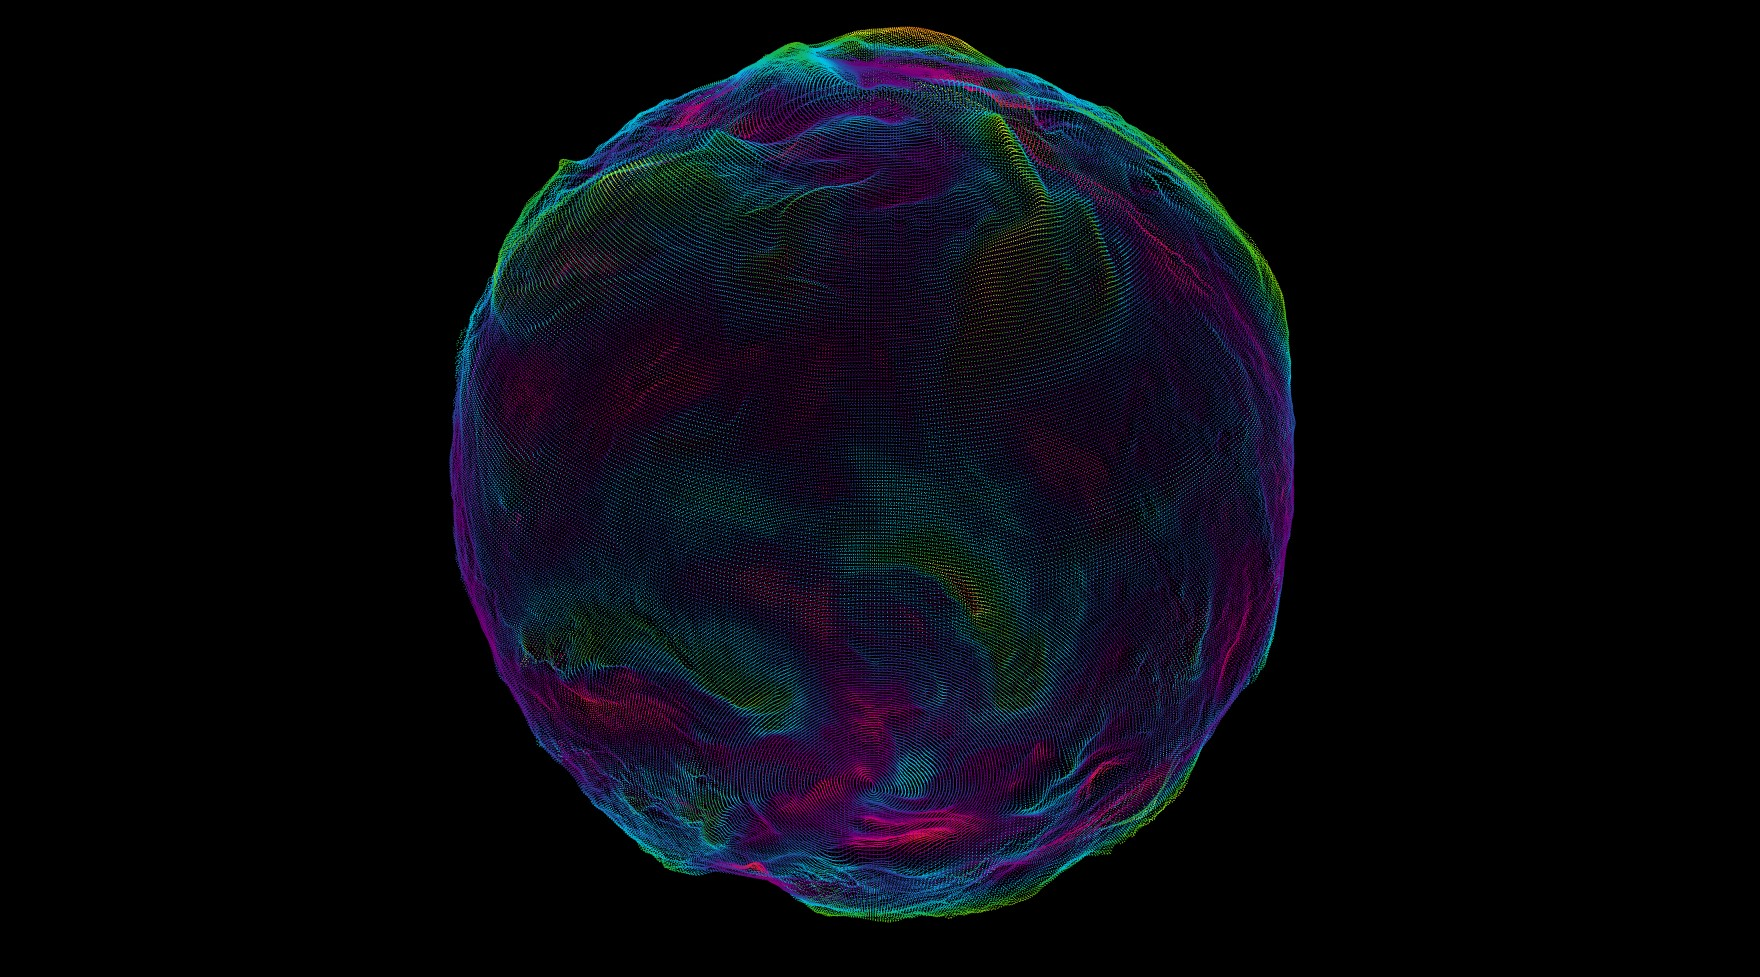
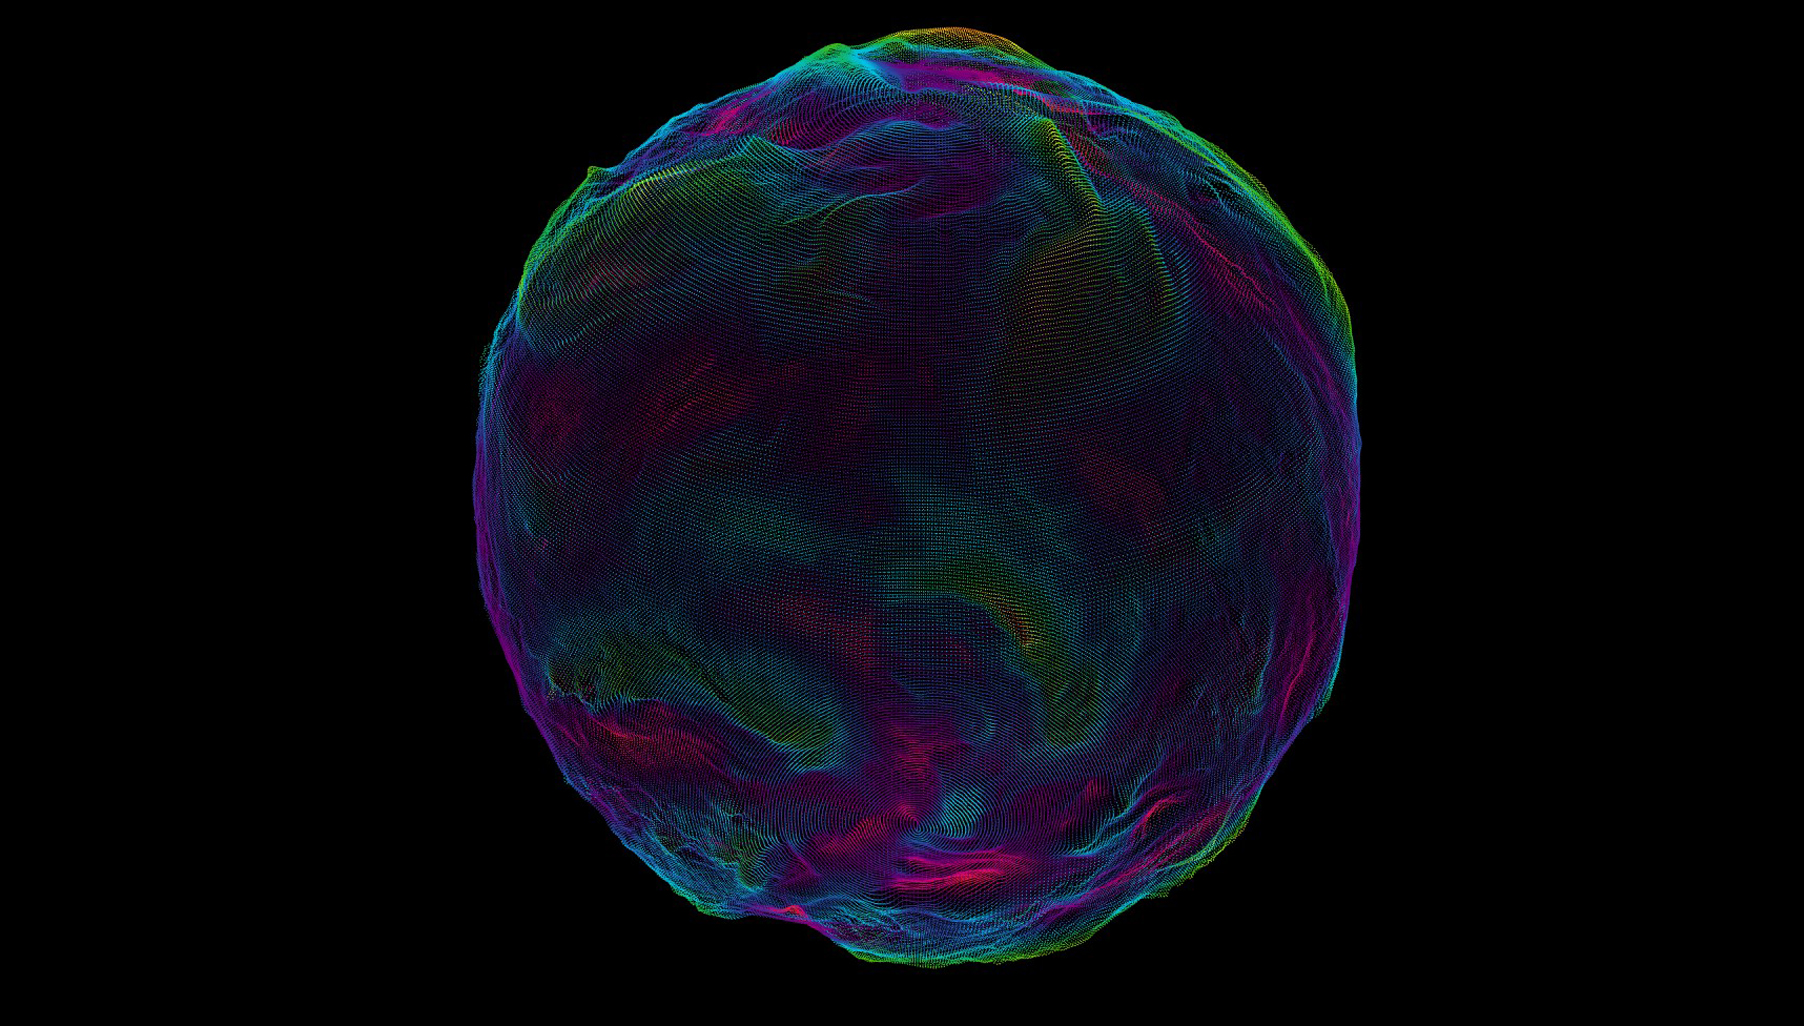
Add small images for lazy loading and unitize the size of all images for smoother UX
Smooth

Changed region(s): [[0.25, 0.0, 0.7812, 0.9519]]

diff --git a/index.html b/index.html
@@ -106,7 +106,7 @@
               <div class="pagepiling">
                   <div data-anchor="page1" class="pp-scrollable text-white section section-1">
                       <div class="scroll-wrap">
-                          <div class="section-bg lazyload" style="background-image:url(Images/bg/WindVelocity_4.jpg);" data-src="Images/bg/WindVelocity_4.jpg"></div>
+                          <div class="lazy section-bg" style="background-image:url(Images/bg/WindVelocity_4_Small.jpg);" data-original="Images/bg/WindVelocity_4.jpg"></div>
                           <div class="scrollable-content">
                               <div class="vertical-centred">
                                   <div class="boxed boxed-inner">
@@ -189,12 +189,12 @@
                   <div data-anchor="page3" class="pp-scrollable text-white section section-3">
                       <div class="scroll-wrap">
                           <div class="bg-changer">
-                              <div class="section-bg" style="background-image:url(Images/bg/NotOurHome.png);" data-src="Images/bg/NotOurHome.png"></div>
-                              <div class="section-bg" style="background-image:url(Images/Galaxy/GalaxyOne.png);" data-src="Images/Galaxy/GalaxyOne.png"></div>
-                              <div class="section-bg" style="background-image:url(Images/bg/BezierP5.png);" data-src="Images/bg/BezierP5.png"></div>
-                              <div class="section-bg" style="background-image:url(Images/bg/FluidsMobile.png);" data-src="Images/bg/FluidsMobile.png"></div>
-                              <div class="section-bg" style="background-image:url(Images/bg/Fluid.png);" data-src="Images/bg/Fluid.png"></div>
-                              <div class="section-bg" style="background-image:url(Images/bg/FunkyWaveTwo.png);" data-src="Images/bg/FunkyWaveTwo.png"></div>
+                              <div class="lazy section-bg" style="background-image:url(Images/bg/NotOurHome_Small.png);" data-original="Images/bg/NotOurHome.png"></div>
+                              <div class="lazy section-bg" style="background-image:url(Images/Galaxy/GalaxyOne_Small.png);" data-original="Images/Galaxy/GalaxyOne.png"></div>
+                              <div class="lazy section-bg" style="background-image:url(Images/bg/BezierP5_Small.png);" data-original="Images/bg/BezierP5.png"></div>
+                              <div class="lazy section-bg" style="background-image:url(Images/bg/FluidsMobile_Small.png);" data-original="Images/bg/FluidsMobile.png"></div>
+                              <div class="lazy section-bg" style="background-image:url(Images/bg/Fluid_Small.png);" data-original="Images/bg/Fluid.png"></div>
+                              <div class="lazy section-bg" style="background-image:url(Images/bg/FunkyWaveTwo_Small.png);" data-original="Images/bg/FunkyWaveTwo.png"></div>
                           </div>
                           <div class="scrollable-content">
                               <div class="vertical-centred">
@@ -287,9 +287,9 @@
                   <div data-anchor="page4" class="pp-scrollable text-white section section-3">
                       <div class="scroll-wrap">
                           <div class="bg-changer">
-                              <div class="section-bg" style="background-image:url(Images/bg/BezierGPU.png);" data-src="Images/bg/BezierGPU.png"></div>
-                              <div class="section-bg" style="background-image:url(Images/bg/dnaStructure.jpg);" data-src="Images/bg/dnaStructure.jpg"></div>
-                              <div class="section-bg" style="background-image:url(Images/Mesa/Mesa_5.png);" data-src="Images/Mesa/Mesa_5.png"></div>
+                              <div class="lazy section-bg" style="background-image:url(Images/bg/BezierGPU_Small.png);" data-original="Images/bg/BezierGPU.png"></div>
+                              <div class="lazy section-bg" style="background-image:url(Images/bg/dnaStructure_Small.jpg);" data-original="Images/bg/dnaStructure.jpg"></div>
+                              <div class="lazy section-bg" style="background-image:url(Images/Mesa/Mesa_Portada_Small.png);" data-original="Images/Mesa/Mesa_Portada.png"></div>
                           </div>
                           <div class="scrollable-content">
                               <div class="vertical-centred">
@@ -367,7 +367,7 @@
                                                       </div>
                                                       <div class="col-md-6 col-lg-5 col-md-offset-1 col-lg-offset-2">
                                                           <div class="dots-image-2">
-                                                              <img alt="" class="img-responsive" src="Images/bg/Yardy.jpg">
+                                                              <img alt="" class="lazy img-responsive" src="Images/bg/Yardy.jpg">
                                                               <div class="dots"></div>
                                                               <div class="experience-info">
                                                                   <div class="number">2</div>
@@ -386,7 +386,7 @@
                   </div>
                   <div data-anchor="page6" class="pp-scrollable text-white section section-6">
                       <div class="scroll-wrap">
-                          <div class="section-bg" style="background-image:url(Images/bg/WindVelocitySpherical.jpg);" data-src="Images/bg/WindVelocitySpherical.jpg"></div>
+                          <div class="lazy section-bg" style="background-image:url(Images/bg/WindVelocitySpherical_Small.jpg);" data-original="Images/bg/WindVelocitySpherical.jpg"></div>
                           <div class="scrollable-content">
                               <div class="vertical-centred">
                                   <div class="boxed boxed-inner">
@@ -548,13 +548,13 @@
     <!-- Scripts -->
     <script src="js/scripts.js"></script>
 
-    <script src="https://cdn.jsdelivr.net/npm/lazyload@2.0.0-rc.2/lazyload.js"></script>
+    <script src="js/lazyload.min.js"></script>
     <script>
-        /*window.addEventListener("load", function(event) {
-            let images = document.querySelectorAll("[data-src]");
-            let lazy = lazyload(images, {"src": "data-src"});
-        });*/
-        lazyload();
+        window.addEventListener("load", function(event) {
+            let images = document.querySelectorAll("[data-original]");
+            let lazy = lazyload(images, {"src": "data-original"});
+        });
+        //lazyload();
         //if( $("img.lazyload").lazyload )
         //console.log("YES");
         

diff --git a/js/lazyload.min.js b/js/lazyload.min.js
@@ -1,0 +1,2 @@
+/*! Lazy Load 2.0.0-rc.2 - MIT license - Copyright 2007-2019 Mika Tuupola */
+!function(t,e){"object"==typeof exports?module.exports=e(t):"function"==typeof define&&define.amd?define([],e):t.LazyLoad=e(t)}("undefined"!=typeof global?global:this.window||this.global,function(t){"use strict";function e(t,e){this.settings=s(r,e||{}),this.images=t||document.querySelectorAll(this.settings.selector),this.observer=null,this.init()}"function"==typeof define&&define.amd&&(t=window);const r={src:"data-src",srcset:"data-srcset",selector:".lazyload",root:null,rootMargin:"0px",threshold:0},s=function(){let t={},e=!1,r=0,o=arguments.length;"[object Boolean]"===Object.prototype.toString.call(arguments[0])&&(e=arguments[0],r++);for(;r<o;r++)!function(r){for(let o in r)Object.prototype.hasOwnProperty.call(r,o)&&(e&&"[object Object]"===Object.prototype.toString.call(r[o])?t[o]=s(!0,t[o],r[o]):t[o]=r[o])}(arguments[r]);return t};if(e.prototype={init:function(){if(!t.IntersectionObserver)return void this.loadImages();let e=this,r={root:this.settings.root,rootMargin:this.settings.rootMargin,threshold:[this.settings.threshold]};this.observer=new IntersectionObserver(function(t){Array.prototype.forEach.call(t,function(t){if(t.isIntersecting){e.observer.unobserve(t.target);let r=t.target.getAttribute(e.settings.src),s=t.target.getAttribute(e.settings.srcset);"img"===t.target.tagName.toLowerCase()?(r&&(t.target.src=r),s&&(t.target.srcset=s)):t.target.style.backgroundImage="url("+r+")"}})},r),Array.prototype.forEach.call(this.images,function(t){e.observer.observe(t)})},loadAndDestroy:function(){this.settings&&(this.loadImages(),this.destroy())},loadImages:function(){if(!this.settings)return;let t=this;Array.prototype.forEach.call(this.images,function(e){let r=e.getAttribute(t.settings.src),s=e.getAttribute(t.settings.srcset);"img"===e.tagName.toLowerCase()?(r&&(e.src=r),s&&(e.srcset=s)):e.style.backgroundImage="url('"+r+"')"})},destroy:function(){this.settings&&(this.observer.disconnect(),this.settings=null)}},t.lazyload=function(t,r){return new e(t,r)},t.jQuery){const r=t.jQuery;r.fn.lazyload=function(t){return t=t||{},t.attribute=t.attribute||"data-src",new e(r.makeArray(this),t),this}}return e});

diff --git a/html/bezier.html b/html/bezier.html
@@ -279,17 +279,19 @@
     <script src="../js/jquery.validate.min.js"></script>
     <script src="../js/owl.carousel.min.js"></script>
     <script src="../js/jquery.pagepiling.js"></script>
-    <script src="https://cdn.jsdelivr.net/npm/lazyload@2.0.0-rc.2/lazyload.js"></script>
+    
+    
+    <!-- Scripts -->
+    <script src="../js/scripts.js"></script>
+
+    <script src="../js/lazyload.min.js"></script>
     <script>
         window.addEventListener("load", function(event) {
             let images = document.querySelectorAll("[data-original]");
             let lazy = lazyload(images, {"src": "data-original"});
         });
     </script>
-    
-    
-    <!-- Scripts -->
-    <script src="../js/scripts.js"></script>
+
     <!-- <script async src="https://cdn.jsdelivr.net/npm/vanilla-lazyload@12.3.0/dist/lazyload.min.js"></script>	 -->
 </body>
 </html>
